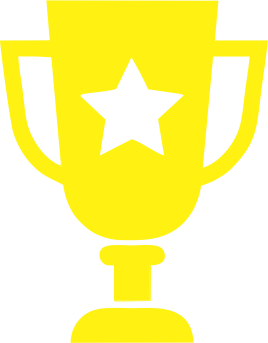
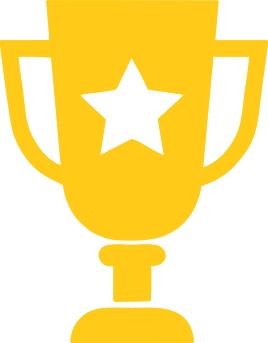
Ranking : adicionado icones e responsividade

diff --git a/view/ranking.php b/view/ranking.php
@@ -23,9 +23,21 @@
         <link rel="stylesheet" href="https://stackpath.bootstrapcdn.com/bootstrap/4.1.3/css/bootstrap.min.css" integrity="sha384-MCw98/SFnGE8fJT3GXwEOngsV7Zt27NXFoaoApmYm81iuXoPkFOJwJ8ERdknLPMO" crossorigin="anonymous">
         <link rel="shortcut icon" href="../img/favicon.png">
         <link rel="stylesheet" type="text/css" href="../estrutura/css/ranking.css">
+        <link rel="stylesheet" href="https://cdnjs.cloudflare.com/ajax/libs/font-awesome/4.7.0/css/font-awesome.min.css">
 
+        <style> 
+            img{
+                display: inline-block;
+                font: normal normal normal 14px/1 FontAwesome;
+                font-size: inherit;
+                text-rendering: auto;
+                -webkit-font-smoothing: antialiased;
+            }
+        </style>
     </head>
+    
     <body>
+        
         <!-- divisão -->
         <h1 align="center">Ranking Geral</h1>
         <div  id="area" class="shadow-lg p-3 b-5 bg-light rounded mt-2">
@@ -33,31 +45,68 @@
                 <table class="table " align="center" id="tabela_ranking">
                     <thead>
                         <tr>
-                            <th>Ranking</th>
+                            <th style="padding-left:6%;">Ranking</th>
                             <th>Nome de usuário</th>
                             <th>Pontuação</th>
                         </tr>
                     </thead>
+                    
+                    
                     <?php
                     $ranking = $bd->montarRanking($conexao);
-                    for ($i = 0; $i < count($ranking); $i++) {
-                        echo '<tr>';
-                        echo '<td>' . (string) ($i + 1) . ' º</td>';
-                        echo '<td>' . $ranking[$i]['nome'] . '</td>';
-                        echo '<td>' . number_format($ranking[$i]['pont'], 2, '.', '') . '</td>';
-                        echo '</tr>';
-                    }
-                    ?>
+                    for ($i = 0; $i < count($ranking); $i++) {?>
+                        <tr>
+                            <td style="width:20%;" >
+                                <div class="container">
+                                    <div class="row justify-content-center" >
+                                        
+                                        <?php if ($_SESSION['email'] ==  $ranking[$i]['email']) {?>
+                                            <div class="col-sm-3"> <i class="fa fa-circle" style="color: red; margin-right:3%;"></i> </div>
+                                        <?php }else{ ?>
+                                            <div class="col-sm-3"> <label for="" style="margin-right:3%;"></label> </div>
+                                        <?php } ?>
 
+                                        <?php if ($i == 0) {?>
+                                            <div class="col-sm-3"> <i class="fa fa-trophy fa-2x" style="margin-right: 20%; color:#ffd700"></i> </div>
+                                        <?php } ?>
+
+                                        <?php if ($i == 1) {?>
+                                            <div class="col-sm-3"> <i class="fa fa-trophy fa-2x" style="margin-right: 20%; color:#c0c0c0"></i> </div>
+                                        <?php } ?>
+
+                                        <?php if ($i == 2) {?>
+                                            <div class="col-sm-3"> <i class="fa fa-trophy fa-2x" style="margin-right: 20%; color:#cd7f32"></i> </div>
+                                        <?php } ?>
+                                        
+                                        <?php if ($i == (count($ranking) - 1)) {?>
+                                            <div class="col-sm-3"> <img src="../img/turtle.png" style="margin-right: 20%;"> </div>
+                                        <?php }else if ($i > 2) {?>
+                                            <div class="col-sm-3"> <label for="" style="margin-right:3%;"></label> </div>
+                                        <?php } ?>
+
+
+                                        
+                                        
+                                        <div class="col-sm-4" style="margin-right:13%; margin-left:1%;"> <label style="color: #75b3ff; margin-right:40%;"> <?php echo (string) ($i + 1);?> </label> </div>
+                                    </div>
+                                </div>
+                            </td>
+
+                            <td > <?php echo $ranking[$i]['nome']; ?> </td>
+
+                            <td> <?php echo number_format($ranking[$i]['pont'], 2, '.', '');?> </td>
+                        </tr>
+                    
+                    <?php } ?>
                 </table>
             </div>
         </div> <!-- area -->
 
       
 
-        <footer class="card text-center">
-           
-        </footer>
+        <!-- Direitos das imagens -->
+        <div hidden="">Icons made by <a href="https://www.flaticon.com/authors/freepik" title="Freepik">Freepik</a> from <a href="https://www.flaticon.com/" title="Flaticon">www.flaticon.com</a></div>
+        
 
 
     </body>
